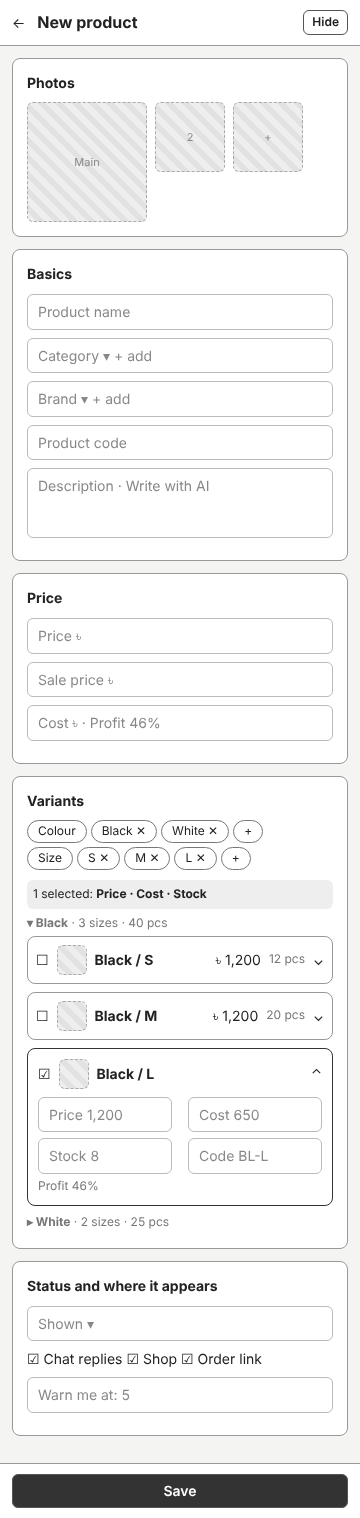
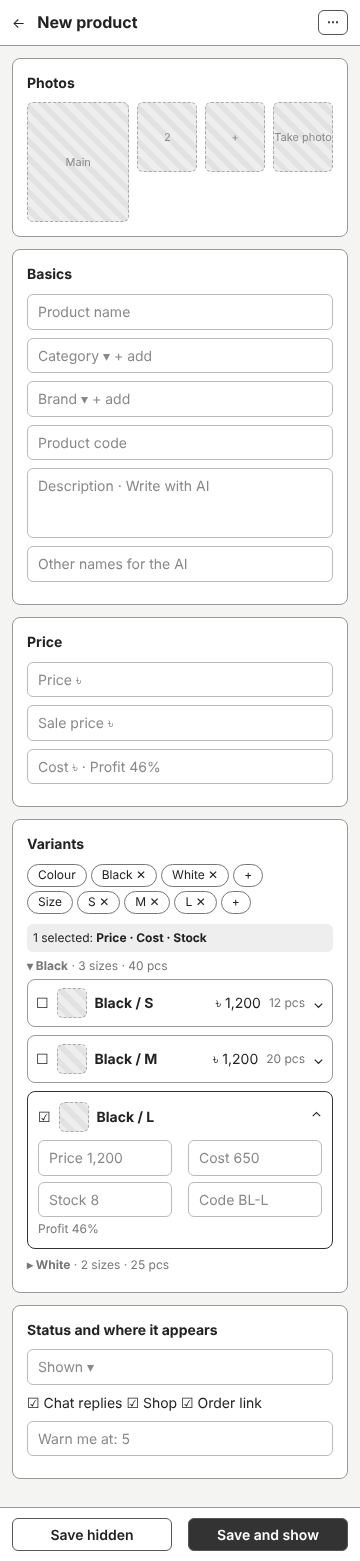
docs(products): list kept editor functions and add them to the PROD-11 wireframes

diff --git a/docs/features/05-products-and-stock.md b/docs/features/05-products-and-stock.md
@@ -132,6 +132,16 @@ Decision: [0012](../adr/0012-full-page-product-form.md). Wireframes: `docs/desig
 - **Variants grid** (research: `docs/design/wireframes/prod-11/research.md`): up to three options, typed as values or picked from suggestions (S, M, L, XL, XXL, common colours). The grid is built as values are added, with no save step in between. Rows are grouped by the first option and can be collapsed. Each row has a checkbox, image, price, cost, profit percent, stock and product code, edited in place. The bulk bar sets price, cost or stock for the chosen rows, and a paste from a spreadsheet fills the grid. A blank price uses the product price. A removed combination returns with **Add missing combinations**. Renaming an option keeps the variant ids, prices, codes and stock. Adding an option to a product that has stock moves the existing stock to the first value of the new option and says so. Stock edits in the grid are written to the stock history with one reason asked on save.
 - **Suggested options**: once the product has a title or a photo, the Variants card offers **Suggest options**. Photos go to the `vision` tier and the title to the `fast` tier through `AiService` (PROD-8 already reads colour from photos). The suggestion is a list of option names and values, such as Size S to XL for a T-shirt or Colour Black and White from the photos. It is shown as chips with an Add all button and each chip can be removed first. Nothing is added without a tap, the AI never sets a price, stock or code. It follows the same allowance rule as photo tagging (PROD-8). Without a title or photo, or when the AI is unavailable, the seller still gets the plain suggestions list (S, M, L, XL, XXL and common colours).
 - **No options**: most products have none. The Variants card then shows only **Add options** (with Suggest options), no grid. Stock, product code and the warn-at level sit in the Price and Stock settings cards as plain fields, so a simple product needs no variant step. Adding the first option turns the product's stock and code into the first row of the grid, as the rule above says; removing every option back to none is allowed only when one row is left.
+- **Kept from the current editor and the prototype** (checked against the existing doc; each of these must be on the page before the drawer is removed):
+  - **Other names** for the AI search ("kurti", "কুর্তি", "three piece"), one per line, in Basics.
+  - **Save actions**: a new product has **Save as hidden** and **Save and show**; an existing one has **Save product** and **Hide product** or **Show product**. Removing a variant row that appears in an open order is blocked with a plain message, and Archive product is blocked while any variant is in an open order (offer Hide instead).
+  - **More actions menu**: Duplicate product (copies everything except stock, photos tags and history), Archive product.
+  - **Share**: Copy for chat, Copy order link, Post on Facebook.
+  - **Insights on the page**: sales by channel, times asked in chats, and the restock waiting list for each size, shown on the Waiting list tab and in the right column.
+  - **Photos**: up to 10 of up to 5 MB (JPEG, PNG, WebP), move earlier, remove with a confirm, photos for each variant, and a retry button when an upload fails. On a phone, **Take photo** opens the camera.
+  - **Permissions**: members without Edit Products see the same page read-only, with no Save bar.
+  - **Two people editing**: if the product changed since the page was opened, Save says so and offers to reload, and the typed values stay on screen.
+  - **Needs a price and Needs a photo** labels, and the AI readiness line, stay on the page and the list.
 - Plain validation messages on every field; a typed cost is kept when options change.
 - Leaving with unsaved changes asks first. Restock and Change stock stay dialogs.
 - On a phone each variant is one line (name, price, stock) that opens to edit its fields, the bulk bar stays, and the Save bar sticks to the bottom.
